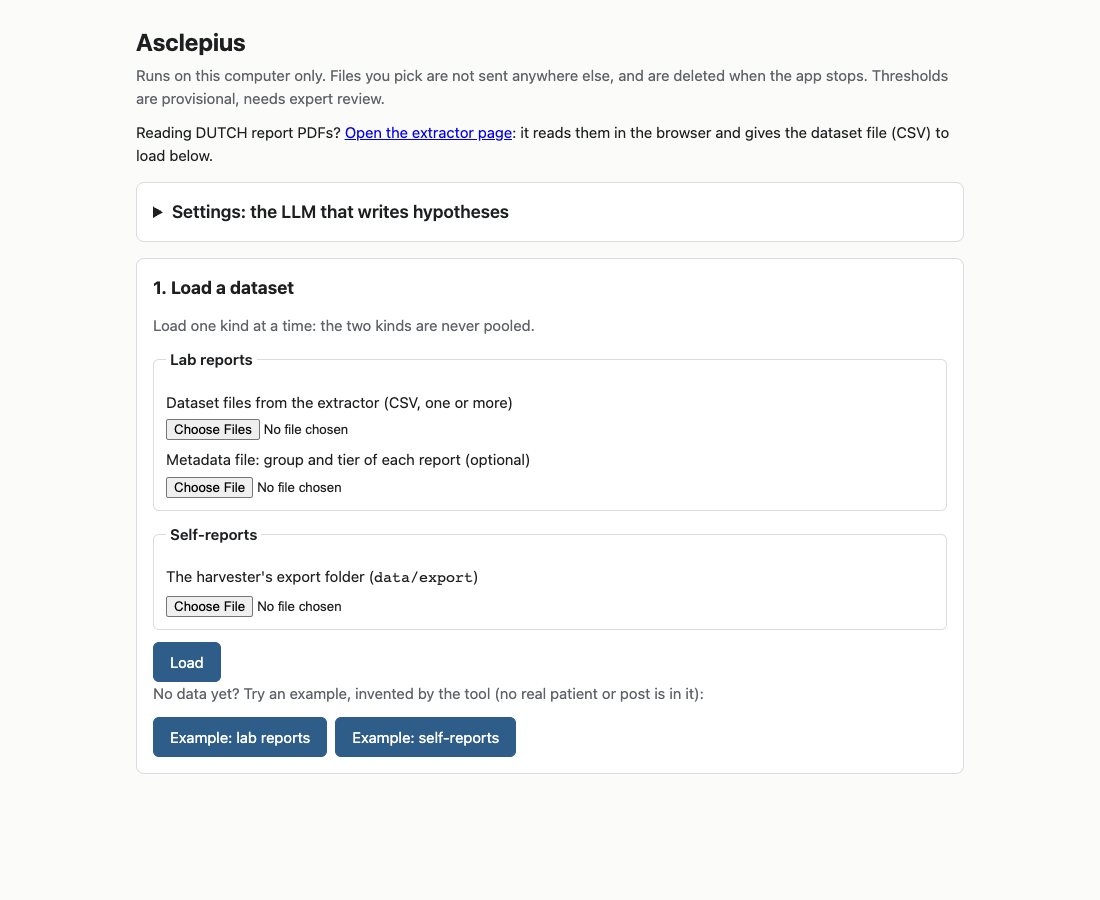
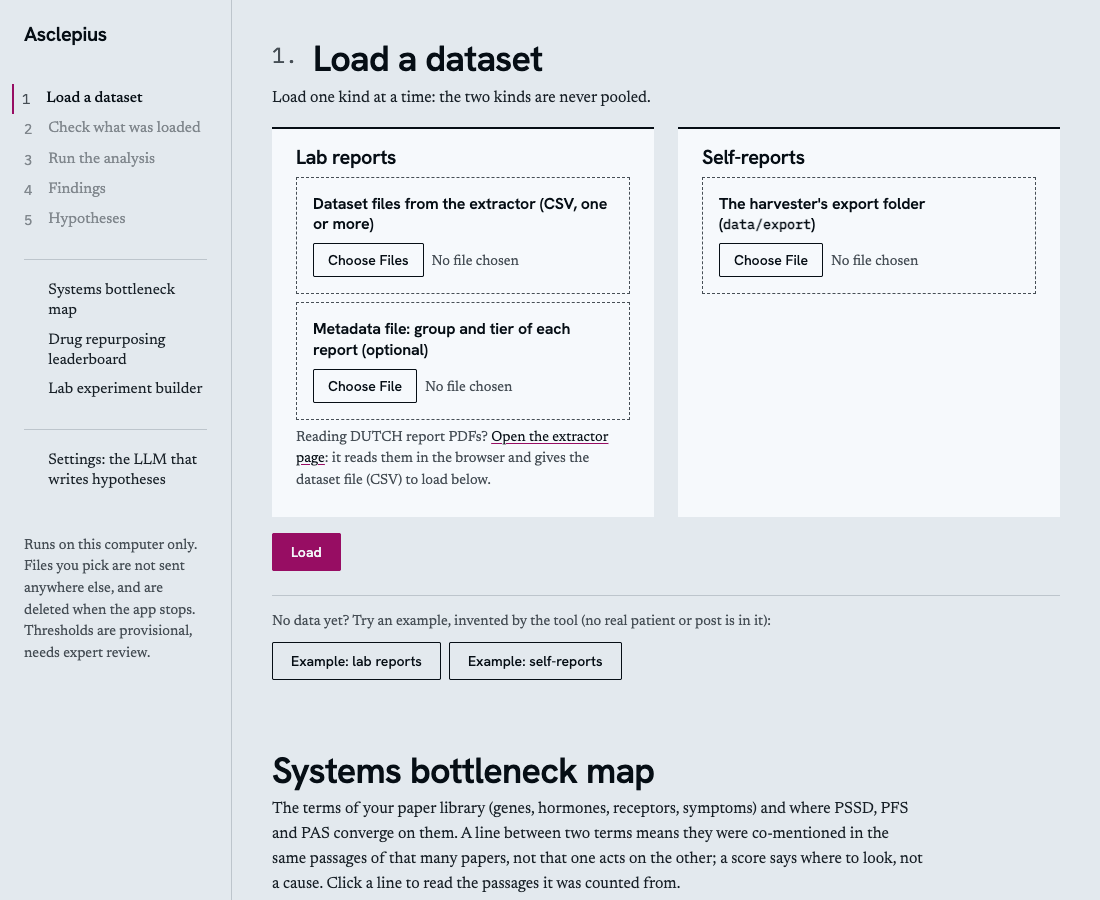
Contents mark the section in view by scroll position; guide follows the new page
The intersection observer could leave an earlier section marked; the
current section is now the last one whose top has passed a third of the
window. The guide's screenshots are retaken in the new look, and it no
longer says Settings and the extractor link are at the top of the page.

diff --git a/analysis/asclepius/web/index.html b/analysis/asclepius/web/index.html
@@ -1848,8 +1848,12 @@ function showContents() {
   }
 }
 
-function markCurrent(section) {
-  for (const [a, s] of CONTENTS) { if (s === section) a.setAttribute("aria-current", "true"); else a.removeAttribute("aria-current"); }
+/** Mark the section in view: the last shown one whose top has passed a line a third down the window. */
+function markCurrent() {
+  const line = window.innerHeight * 0.35;
+  let current = CONTENTS[0][1];
+  for (const [, s] of CONTENTS) if (!s.hidden && s.getBoundingClientRect().top <= line) current = s;
+  for (const [a, s] of CONTENTS) { if (s === current) a.setAttribute("aria-current", "true"); else a.removeAttribute("aria-current"); }
 }
 
 for (const [a, section] of CONTENTS) {
@@ -1859,13 +1863,14 @@ for (const [a, section] of CONTENTS) {
     if (details) details.open = true;
   });
 }
-const watch = new MutationObserver(showContents);
+const watch = new MutationObserver(() => { showContents(); markCurrent(); });
 for (const [, section] of CONTENTS) watch.observe(section, { attributes: true, attributeFilter: ["hidden"] });
-const seen = new IntersectionObserver((entries) => entries.forEach((e) => { if (e.isIntersecting) markCurrent(e.target); }),
-  { rootMargin: "-30% 0px -60% 0px" });
-for (const [, section] of CONTENTS) seen.observe(section);
+let marking = 0;
+for (const event of ["scroll", "resize"]) {
+  window.addEventListener(event, () => { cancelAnimationFrame(marking); marking = requestAnimationFrame(markCurrent); }, { passive: true });
+}
 showContents();
-markCurrent($("load"));
+markCurrent();
 
 showFactors();
 loadMap();

diff --git a/guide/README.md b/guide/README.md
@@ -156,7 +156,7 @@ controls".
 
 ### Set up the language model
 
-Open **Settings: the LLM that writes hypotheses** at the top of the page. Until it is set up it
+Open **Settings: the LLM that writes hypotheses**, last in the contents on the left. Until it is set up it
 shows a red "No LLM is configured" message; that is expected.
 
 ![The settings panel on a new install](images/02-settings.png)
@@ -198,7 +198,7 @@ to test, not recommendations. **Export hypotheses (HTML)** saves them with the r
 
 ### DUTCH reports (PDF)
 
-The app links to the **extractor page** ("Open the extractor page" at the top). Drop DUTCH report
+The app links to the **extractor page** ("Open the extractor page", under **Lab reports**). Drop DUTCH report
 PDFs onto it. It reads them inside the browser tab; the PDFs are never uploaded, and the page works
 with the internet switched off.
 
